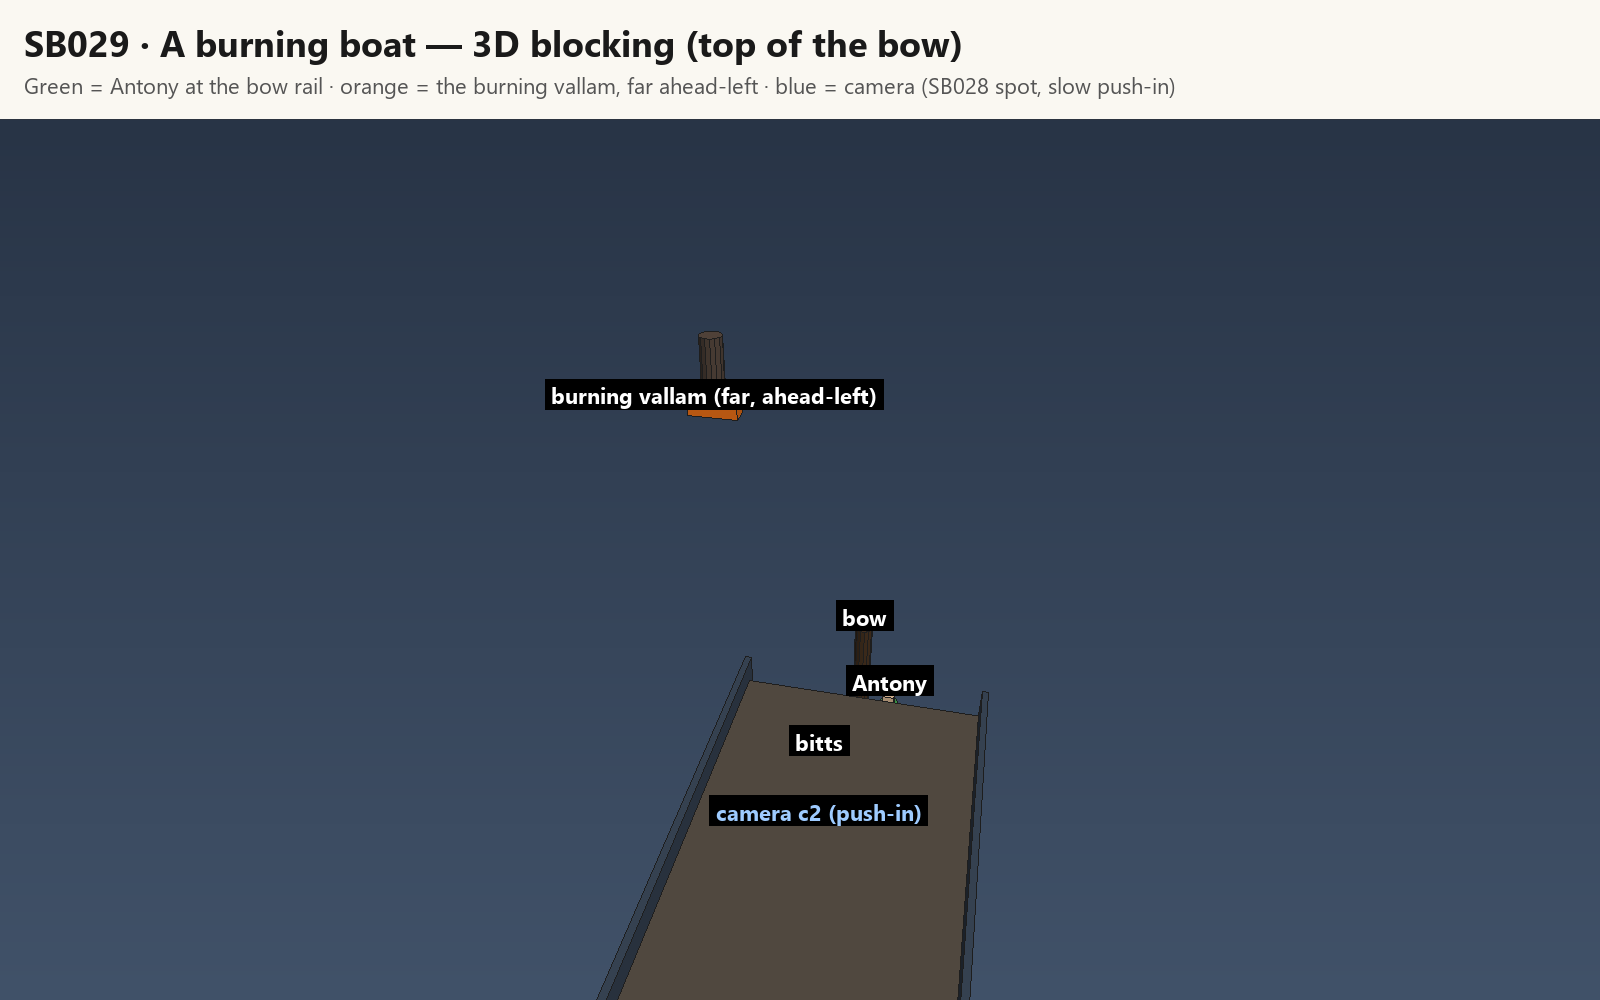
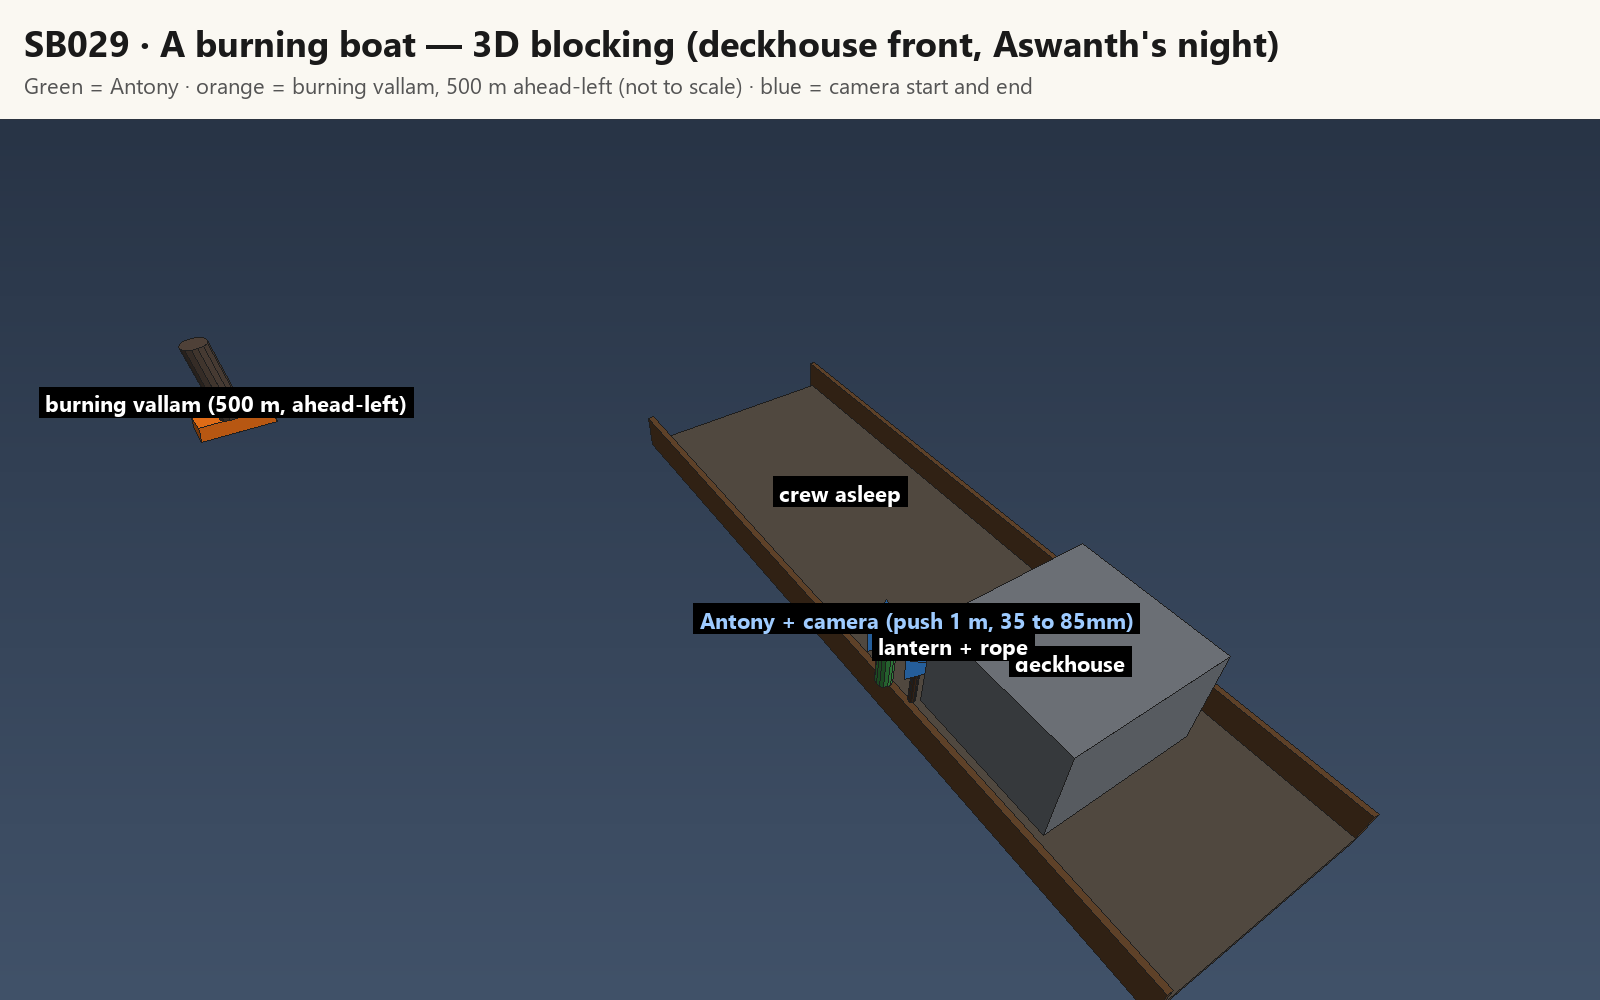
Ranjith: shot: s23-sh02 v5 (SB029 reshoot, fire grows at 500 m)

Changed region(s): [[0.3438, 0.31, 0.875, 1.0], [0.125, 0.031, 0.8125, 0.093], [0.0, 0.341, 0.2812, 0.465]]

diff --git a/scenes/showreel/s23-sh02.md b/scenes/showreel/s23-sh02.md
@@ -1,0 +1,86 @@
+# Shot s23-sh02 · SB029 A burning boat: push over Antony's shoulder, 35mm to 85mm (10 s, silent) — v5
+Status: **ready** (v5, Ranjith 2026-11-13: SB028+ reshoot in Aswanth's night look; follows s23-sh01 v6, whose take ended behind Antony's head; v4 kept in `retired/s23-sh02-v4.md`). QA 94.
+Storyboard: SB029 · source scene 23B · emotion "Concern" (silent shot, no tag) · storyboard `storyboards/sb029-storyboard.png`
+Created by: Ranjith, 2026-11-07
+Camera: carries on from the s23-sh01 v6 end position (directly behind Antony's head at the deckhouse-front rail). Cinematographer move approved by Ranjith ("Use this camera move"): slow push forward over his right shoulder, lens 35mm to 85mm.
+References: start = @s23sh01nightback · end reference = @s23sh02nightend · @antony20 (full) · @burningvallamnomoon (background only, 500 m)
+Reference sweep (left out, and why): @urubowplate and the full-moon bow plates: replaced by Aswanth's night (LOCK.md), and the bow is not in this view. @burningvallam: carries a crescent moon (use the no-moon version). @s23sh01night: start of the shot before, other angle (L61). Crew sheets, @aashaan: asleep / at the wheel, behind the camera (L27). The lantern: behind the camera (L155).
+Fire size (Ranjith: "it looks like a small fire, do we make it better" / "previous shot din have this much fire and it showed more distance"): the fire must match the dot it was in SB028. It stays 500 m away; the 85mm lens makes it about 2.4 times bigger than the 35mm dot, so the boat ends about a twentieth of the frame wide. It looks bigger because it **grows in the shot**: at 4.0s it flares along the whole hull and a smoke plume starts. No huge blaze.
+Follows: s23-sh01 v6. Next: s23-sh02b (Antony calls Babu): from here on the fire keeps growing from this size.
+
+## Prompt
+```
+SCENE CONTEXT
+Late at night, 1998, the open Arabian Sea off Kerala. Antony, alone on watch at the rail by the front corner of the deckhouse, has just seen a tiny light straight ahead on the horizon. One continuous shot, 10 seconds: the camera pushes slowly forward over his shoulder and the far light becomes clear: a small fishing boat catching fire, 500 m away; as he watches, the fire flares up along the whole boat. His body freezes with dread. Nobody speaks.
+
+MEMORY (the same night in every shot; nothing changes unless this block says so)
+Place: our wooden cargo uru as in the start image: one thick square wooden post of the deckhouse corner, its paint worn to bare grey wood with rust-brown stains, at the left edge; the worn wooden rail on top of the bulwark, about 1 m high, its broad flat top rubbed smooth and dark, running across the lower frame; beyond it the open sea to the horizon.
+Light: a low-key night: very dark navy sky with a few faint stars, a dark navy sea with slow swells; cold blue-grey night light on Antony's shirt and hair; a faint warm 2000K glow from the one lantern on the deck behind the camera touching only the back of his shoulders and the top of the rail. Out on the sea, the only warm light is the fire. Never flat, never orange all over, never bright blue. No moon in frame.
+People: Antony: 24, lean, short black hair; pale blue-grey short-sleeve cotton shirt with thin white and faint rust vertical stripes, sleeves rolled once; seen from behind and from the side only. Alone, one of him.
+Fire: one small Kerala fishing vallam burning, 500 m away, straight out from Antony's face, toward the bow on the uru's left side.
+
+ACTIVE REFERENCES
+@s23sh01nightback (start image, 0.0s): the exact first frame: from directly behind Antony's head at his shoulder height, the rusty post at the left edge, the worn rail across the lower frame, the dark sea, and the tiny warm light on the horizon straight ahead of his face, just right of his head. 100% matches the reference.
+@s23sh02nightend (reference, 7.0s–10.0s): how the shot ends: over his right shoulder with a long lens, his head and shoulder soft at the left edge, his right hand on the rail; the burning vallam small and sharp on the horizon right of centre, a row of flames along it, a thin smoke plume leaning right, a narrow orange reflection streak below it.
+@antony20 (full, seen only from behind and the side): Antony, the only person in the shot, the young man on watch at the rail, both forearms on it. Face, hair and build as on the sheet; shirt as in MEMORY. 100% matches the reference.
+@burningvallamnomoon (background only, 500 m): the burning boat exactly as in this reference: a small Kerala fishing vallam, long, low and narrow, about 9 m long, flat sides, no raised ends, no sail, a white hull with a faded blue band, nets and oars inside; nobody on it. 100% matches the reference.
+
+THE BURNING VALLAM (most important)
+The same tiny light as the start image, the same boat, 500 m away the whole time: it never comes closer. It grows only because the long lens brings it in and because the fire spreads. 0.0s–2.0s: a single warm flicker on the horizon, about a fortieth of the frame wide, exactly as in the start image. 2.0s–7.0s: through the tightening lens it resolves into a long, low, dark hull lying on the horizon line; at 4.0s the fire catches the nets and flares: the flames run from one end of the hull to the other and jump up to about 2 m, bright yellow-white at the core, orange at the ragged tips, tearing in the wind; sparks lift and drift right; a thin dark plume of smoke starts to climb above it, lit orange at its base, leaning right with the wind. 7.0s–10.0s: as in the end reference: the whole boat about a twentieth of the frame wide, sitting on the horizon right of centre, a row of bright flames along its full length, the smoke plume rising and leaning right, a narrow broken orange reflection streak on the swells running from the boat down toward the uru. Small, far and violent: the only warm light out on the sea, lighting nothing near. Nobody on board, no figures, no second boat.
+
+FORMAT MODE
+One continuous shot, 10 seconds, real time, no cut, no slow motion, no zoom jump: one smooth push. Runs the full 10 seconds.
+
+CAMERA AND ACTION
+0.0s to 2.0s — Exactly the start image: about 35mm, the camera about 1.2 m behind Antony's head at his shoulder height, still, riding with the boat. The tiny light flickers on the horizon straight ahead of his face. Sharp: his head and the rail; the far light a soft point.
+2.0s to 7.0s — The camera pushes slowly forward and a little to the right, over his right shoulder, about 1 m in 5 seconds, while the lens tightens smoothly from about 35mm to about 85mm; his head slides to the left edge of the frame and goes soft; the focus passes to the horizon. Through the long lens the light opens into a burning boat: first a cluster of orange tongues, then the low dark hull on the horizon; at 4.0s the fire flares along its whole length and the smoke plume starts to climb.
+7.0s to 10.0s — Hold on the end view: his right shoulder and the back of his head soft at the left edge, his right hand on the rail; the burning vallam small and sharp on the horizon right of centre, 500 m away. He does not move except as written below.
+
+ANTONY (his body)
+Seen from behind and the side: at 3.0s his breath catches and stops; his shoulders rise and lock; at 6.0s his right hand tightens on the rail, knuckles pale; at 8.0s he leans forward a few centimetres toward the fire, his head pushing out, then stops. No turning to the camera, no pointing, no stepping back, no shout.
+
+EYELINES
+Antony is the only person. 0.0s–10.0s: his head points straight at the burning vallam the whole time, gaze level with the horizon; as the camera moves over his shoulder his head stays aimed at the boat, so the line from his face runs exactly to the fire; never down at the water by the hull, never at the rail, never toward the camera.
+
+CAPTURE IMPERFECTIONS
+2.5s: a tiny focus breath as the focus travels to the horizon. 4.0s: the exposure dips very slightly as the fire flares, then settles. The push carries a faint, steady drift from the boat's roll. 3.0s: his breath catches; 8.0s: a slow breath out.
+
+REAL-WORLD PHYSICS
+The uru, about 30 tonnes of wood, rises and settles on a long low swell about once every five seconds, with a slight roll; the horizon tilts very gently with it. The burning vallam rides the same swell: it lifts and drops on the horizon, once almost dipping out of sight; the flames lean and tear in a light wind from the left, the smoke bends right; embers rise on the heat and drift downwind before dying. The reflection breaks and re-forms on each swell. A light breeze stirs Antony's hair and collar. Nothing moves by itself; every movement has a cause.
+
+PERFORMANCE
+Alone, the tired watchman turned to stone: dread, not panic. No posing. Eyes never on the lens.
+
+LIGHTING
+As in MEMORY: cold blue-grey night on Antony, the post and the rail; the far fire about 1800K, bright orange-yellow, the only strong light, lighting the base of its own smoke and its reflection streak but nothing on the uru; a faint warm edge on Antony's shoulder from the lantern behind the camera; the sky deep navy with a few faint stars.
+
+AUDIO
+Sound effects only — natural on-location sound, the soundtrack carries no music. No music at all: no score, no background music, no song, no humming, and no cinematic sound design: no riser, no whoosh, no swell, no rumble, no transition sound. Ambient at a steady level that does not build. No spoken words and no voices; every mouth stays closed.
+0.0s–10.0s: water along the hull, the timbers creaking with the roll, the breeze; from 4.0s, very faint and far, the crackle of the fire carried on the wind; 3.0s his breath catching; 8.0s his slow breath out.
+
+STYLE
+Photoreal 1998 Kerala period feature film, 24fps, fine 35mm grain, gentle halation around the fire, visible skin texture, no smoothing. Shot on a Sony Venice 2 full-frame digital cinema camera: very wide dynamic range that holds the bright fire and the deep night in one frame; clean, low-noise shadows; soft, gradual highlight roll-off; accurate, natural colour with rich, true skin tones; gentle filmic contrast; fine, organic texture; no over-sharpening, no glossy or video look. Low-key deep navy night with one fire.
+
+CONSTRAINTS
+Exactly one man in frame, Antony, seen from behind and the side; nobody else on the uru in view. Exactly one burning boat; nobody on it, no second boat, no ship lights. The fire stays 500 m away on the horizon line: it gets clearer through the long lens, never closer, never bigger than a twentieth of the frame width; no huge smoke cloud, no blaze filling the sea. No lantern in frame (the one lantern is behind the camera). No hand, arm or prop near the camera. No moon in frame. No cut, no dissolve, no zoom jump: one smooth push. No lettering anywhere.
+
+POSITIVE LOCKS
+One continuous 10-second push over Antony's right shoulder, 35mm to 85mm. Antony's head points at the fire the whole time. One small fishing vallam on the horizon, 500 m away, the same as the light in the start image: it catches and flares along its whole length, a thin smoke plume leaning right, a narrow orange reflection. Nobody speaks. Runs the full 10 seconds.
+```
+
+## Settings
+- Duration **10 s** · 21:9 · no dialogue (no voice needed) · remove every other attachment first (L88). Attach folder: `attach/s23-sh02/`.
+- Attach: 01 start `@s23sh01nightback` · 02 end reference `@s23sh02nightend` · 03 `@antony20` · 04 `@burningvallamnomoon` (background only).
+- Risks: the boat drifting closer during the push (end keyframe and CONSTRAINTS lock it at 500 m, a twentieth of the frame); a lantern appearing (CONSTRAINTS); his head turning to the camera.
+
+## Generation results
+- v2 [approved] (2026-11-07, Ranjith) came out well: same bow view carried on from s23-sh01, the burning vallam far left.
+- v1 [failed] (2026-11-07, Ranjith) no relation to the previous shot: Antony sitting in a small open canoe, not on the uru; dusk sky; the burning boat looked like a Viking ship. Only @antony20 was attached, no plate or start image (L84).
+
+## History
+- v5 (2026-11-13): Ranjith: SB028+ reshoot in Aswanth's night look; start = the s23-sh01 v6 end (behind Antony's head); push over his right shoulder 35 to 85mm (cinematographer, approved); the fire grows in the shot from the SB028 dot to a flare along the whole hull, size matched to the 85mm lens (Ranjith); end keyframe @s23sh02nightend; team format with EYELINES (L154), CAPTURE IMPERFECTIONS and CONSTRAINTS (W26); full detail, no cap.
+- v4 (2026-11-12): Ranjith: follows s23-sh01 v3 (from his approved full-moon bow take); MEMORY block; grey-beige shirt; @burningvallamnomoon at 500 m, small but clearly a boat (L150 distance note); camera rides with the boat; written in full detail.
+- v3 (2026-11-12): Ranjith: full-moon redo (SB027–SB032) in the look of his reference video: moon placed by the night sheet (ahead-right of the bow, L142), blue readable light, the bow is @urubowplate (L143), plates swapped to the full-moon IDs. Action, positions, lines and timing unchanged (L114). A start image means the last frame of the NEW full-moon take of the shot before.
+- v2 (2026-11-07): @burningvallam registered and attached (2.0s–8.0s, size-locked far).
+- v2 (2026-11-07): L84: back to the SB028 camera with its last frame as start image, the night bow plate attached, the uru named as the big cargo uru, the vallam described by shape, deep night stated. v1: `retired/s23-sh02-v1.md`.
+- v1 (2026-11-07): first version. W18 recipe (sized, placed, locked), W17 alive body, L83.

diff --git a/scenes/showreel/attach/s23-sh02/README.md b/scenes/showreel/attach/s23-sh02/README.md
@@ -1,10 +1,3 @@
-# s23-sh02 v4 · what to attach (8 s, 21:9, silent)
+# s23-sh02 · what to attach (10 s, 21:9, silent)
 
-| # | File | Platform ID | How |
-|---|---|---|---|
-| 01 | (the last frame of your s23-sh01 v3 take) | — | **start image** (required) |
-| 02 | 02-urubowplate.png | `@urubowplate` | full |
-| 03 | 03-antony20.jpg | `@antony20` | full |
-| 04 | 04-burningvallamnomoon.png | `@burningvallamnomoon` | background only, 500 m |
-
-Remove every other attachment first (L88). Prompt: `scenes/showreel/s23-sh02.md`.
+01 = start image, 02 = end reference, 03 = Antony, 04 = the burning vallam (background only, 500 m). Remove every other attachment first (L88). Prompt: `scenes/showreel/s23-sh02.md`.
